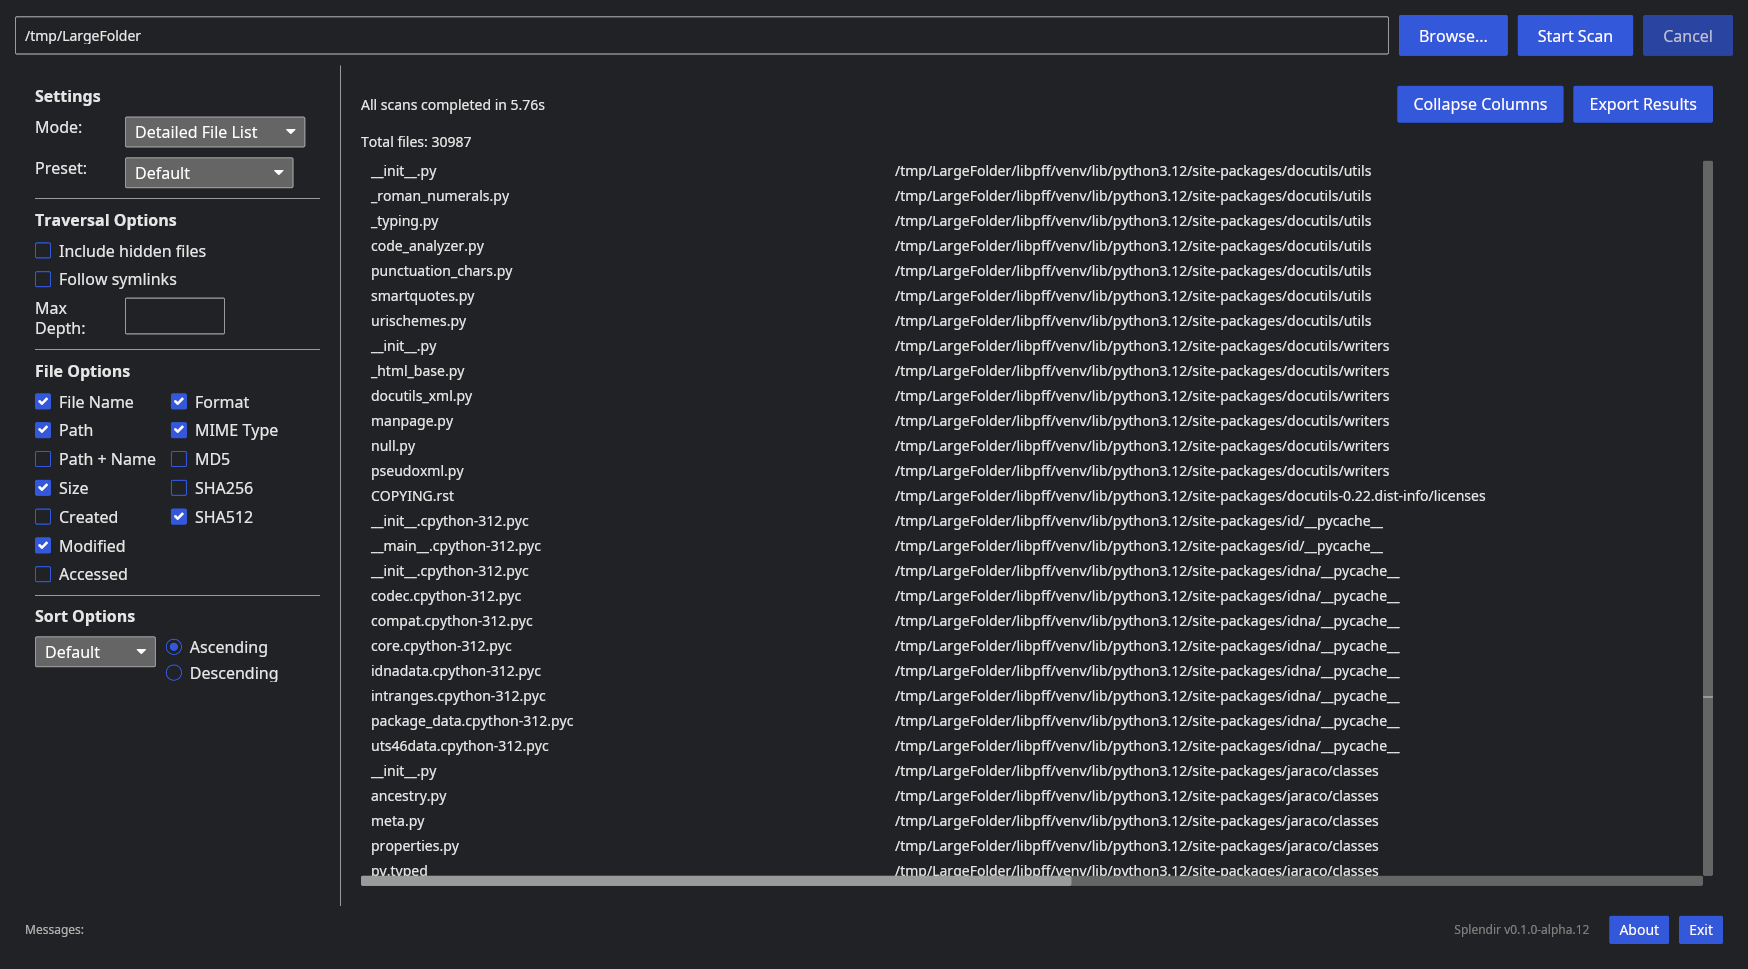
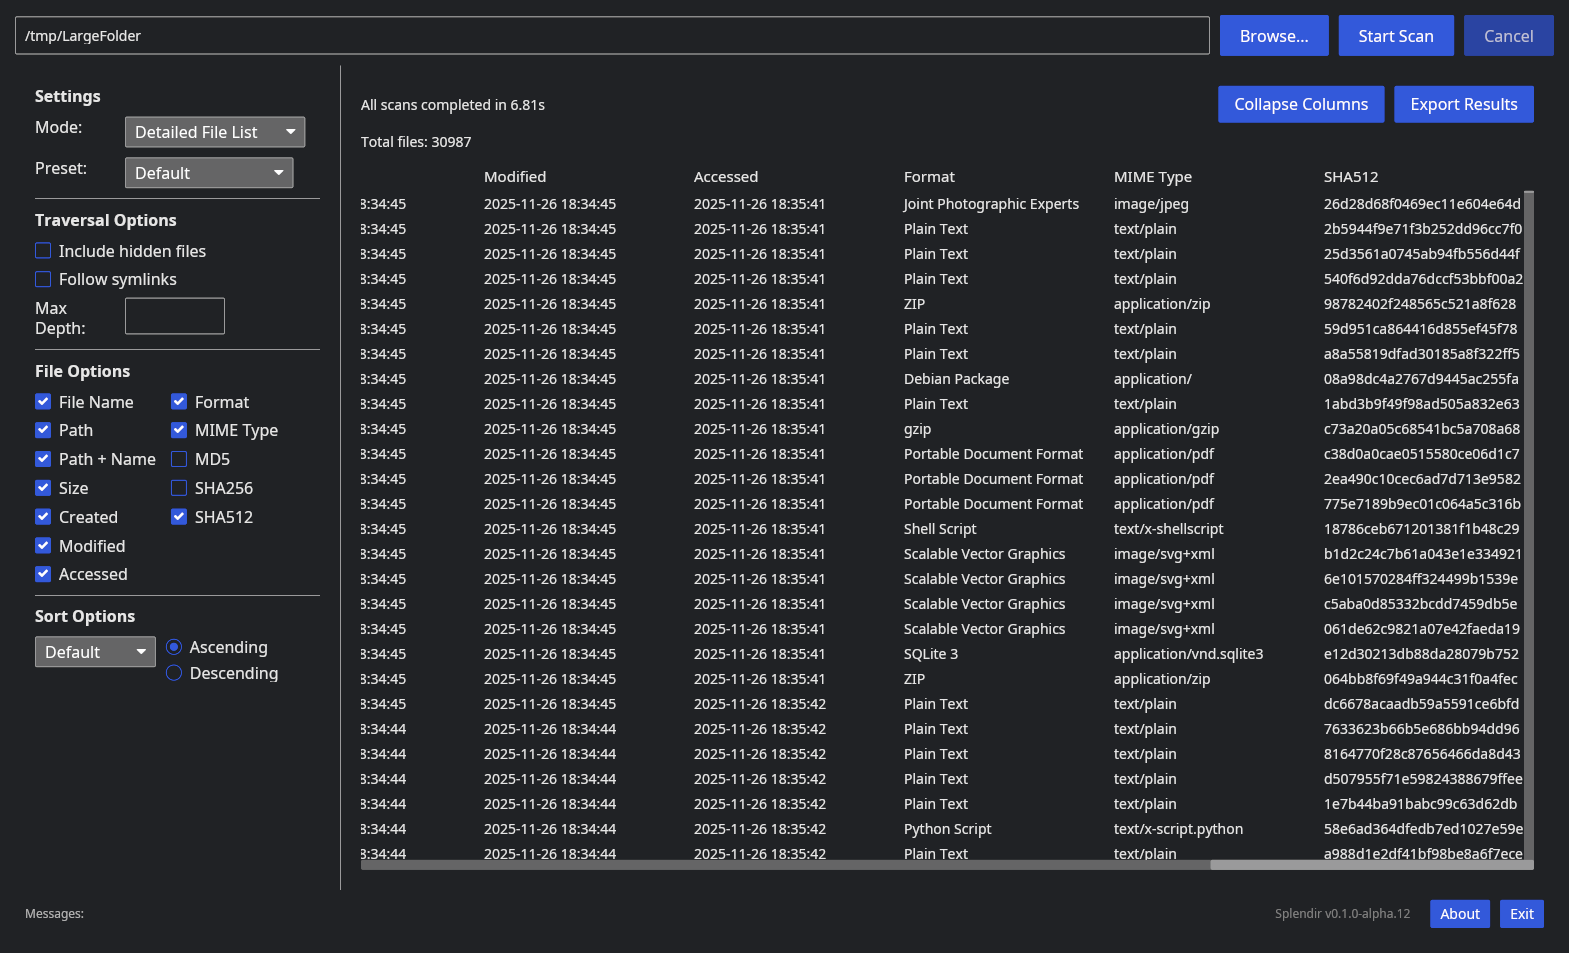
Updated scrolling to stickify headers - Nested scrolling items to capture both header row and scrollable area - Some loss of immediate scroll capture in expanded view, but headers remain visible - Updated screenshots

diff --git a/src/gui.rs b/src/gui.rs
@@ -1023,7 +1023,7 @@ fn view_results(state: &SplendirGui) -> Element<'_, Message> {
     .into()
 }
 
-// Virtual scrolling for detailed results
+// Virtual scrolling for detailed results with sticky header
 fn view_detailed_results_virtual(state: &SplendirGui) -> Element<'_, Message> {
     if state.scan_results.detailed_files.is_empty() {
         return text("No files found").into();
@@ -1036,9 +1036,6 @@ fn view_detailed_results_virtual(state: &SplendirGui) -> Element<'_, Message> {
     let total_files = state.scan_results.detailed_files.len();
     
     let file_count_text = text(format!("Total files: {}", total_files)).size(14);
-    
-    // Build header dynamically based on selected columns
-    let mut header_row = row![].spacing(10).padding([0, 10]);
     
     // Calculate actual widths based on content when expanded
     let (filename_width, path_width, fullpath_width, standard_width, size_width) = if state.columns_expanded {
@@ -1076,45 +1073,47 @@ fn view_detailed_results_virtual(state: &SplendirGui) -> Element<'_, Message> {
         )
     };
     
+    // Build header row with bold text
+    let mut header_row = row![].spacing(10).padding([0, 10]).height(Length::Fixed(30.0)).align_y(Alignment::Center);
+    
     if state.show_filename {
-        header_row = header_row.push(text("File").width(filename_width));
+        header_row = header_row.push(text("File").width(filename_width).size(15));
     }
     if state.show_path {
-        header_row = header_row.push(text("Path").width(path_width));
+        header_row = header_row.push(text("Path").width(path_width).size(15));
     }
     if state.show_path_name {
-        header_row = header_row.push(text("Path + Name").width(fullpath_width));
+        header_row = header_row.push(text("Path + Name").width(fullpath_width).size(15));
     }
     if state.show_size {
-        header_row = header_row.push(text("Size").width(size_width));
+        header_row = header_row.push(text("Size").width(size_width).size(15));
     }
     if state.show_created {
-        header_row = header_row.push(text("Created").width(standard_width));
+        header_row = header_row.push(text("Created").width(standard_width).size(15));
     }
     if state.show_modified {
-        header_row = header_row.push(text("Modified").width(standard_width));
+        header_row = header_row.push(text("Modified").width(standard_width).size(15));
     }
     if state.show_accessed {
-        header_row = header_row.push(text("Accessed").width(standard_width));
+        header_row = header_row.push(text("Accessed").width(standard_width).size(15));
     }
     if state.show_format {
-        header_row = header_row.push(text("Format").width(standard_width));
+        header_row = header_row.push(text("Format").width(standard_width).size(15));
     }
     if state.calculate_mime {
-        header_row = header_row.push(text("MIME Type").width(standard_width));
+        header_row = header_row.push(text("MIME Type").width(standard_width).size(15));
     }
     if state.calculate_md5 {
-        header_row = header_row.push(text("MD5").width(standard_width));
+        header_row = header_row.push(text("MD5").width(standard_width).size(15));
     }
     if state.calculate_sha256 {
-        header_row = header_row.push(text("SHA256").width(standard_width));
+        header_row = header_row.push(text("SHA256").width(standard_width).size(15));
     }
     if state.calculate_sha512 {
-        header_row = header_row.push(text("SHA512").width(standard_width));
+        header_row = header_row.push(text("SHA512").width(standard_width).size(15));
     }
     
-    // Calculate visible range
-    // Don't constrain scroll_offset since we're using Length::Fill - let it scroll freely
+    // Calculate visible range for virtual scrolling
     let scroll_offset = state.detail_scroll_offset.max(0.0);
     let start_index = (scroll_offset / ROW_HEIGHT) as usize;
     let end_index = (start_index + VISIBLE_ROWS).min(total_files);
@@ -1151,19 +1150,12 @@ fn view_detailed_results_virtual(state: &SplendirGui) -> Element<'_, Message> {
         None
     };
     
-    // Create virtual viewport with explicit width when expanded
-    let mut viewport = if let Some(width) = total_content_width {
-        Column::new().spacing(0).width(Length::Fixed(width))
-    } else {
-        Column::new().spacing(0)
-    };
-    
-    // Add header as first item in scrollable area
-    viewport = viewport.push(header_row);
+    // Create body rows in a virtual scrolling viewport
+    let mut body_rows = Column::new().spacing(0);
     
     // Add spacer for items above viewport
     if start_index > 0 {
-        viewport = viewport.push(Space::new(Length::Fill, start_index as f32 * ROW_HEIGHT));
+        body_rows = body_rows.push(Space::new(Length::Fill, start_index as f32 * ROW_HEIGHT));
     }
     
     // Add visible rows
@@ -1229,34 +1221,52 @@ fn view_detailed_results_virtual(state: &SplendirGui) -> Element<'_, Message> {
                 data_row = data_row.push(text(sha512_text).width(standard_width).size(14));
             }
             
-            viewport = viewport.push(data_row);
+            body_rows = body_rows.push(data_row);
         }
     }
     
     // Add spacer for items below viewport
     let remaining_items = total_files.saturating_sub(end_index);
     if remaining_items > 0 {
-        viewport = viewport.push(Space::new(Length::Fill, remaining_items as f32 * ROW_HEIGHT));
+        body_rows = body_rows.push(Space::new(Length::Fill, remaining_items as f32 * ROW_HEIGHT));
     }
+    
+    // Create the vertical scrollable for body rows
+    let vertical_scrollable = scrollable(body_rows)
+        .height(Length::Fill)
+        .on_scroll(|viewport| {
+            Message::DetailScrolled(viewport.absolute_offset().y)
+        });
+    
+    // Create the table structure: header + body in a column
+    // Wrap in horizontal scrollable only when columns are expanded
+    let table_view: Element<'_, Message> = if state.columns_expanded {
+        // When expanded, set fixed width and enable horizontal scrolling
+        let table_content = column![
+            header_row,
+            vertical_scrollable
+        ]
+        .spacing(0)
+        .width(Length::Fixed(total_content_width.unwrap()));
+        
+        scrollable(table_content)
+            .direction(scrollable::Direction::Horizontal(scrollable::Scrollbar::default()))
+            .height(Length::Fill)
+            .into()
+    } else {
+        // When collapsed, use Fill widths and no horizontal scrolling
+        column![
+            header_row,
+            vertical_scrollable
+        ]
+        .spacing(0)
+        .into()
+    };
     
     column![
         file_count_text,
-        container(
-            scrollable(viewport)
-                .height(Length::Fill)
-                .direction(if state.columns_expanded {
-                    scrollable::Direction::Both {
-                        vertical: scrollable::Scrollbar::default(),
-                        horizontal: scrollable::Scrollbar::default(),
-                    }
-                } else {
-                    scrollable::Direction::Vertical(scrollable::Scrollbar::default())
-                })
-                .on_scroll(|viewport| {
-                    Message::DetailScrolled(viewport.absolute_offset().y)
-                })
-        )
-        .height(Length::Fill)
+        container(table_view)
+            .height(Length::Fill)
     ]
     .spacing(10)
     .into()
